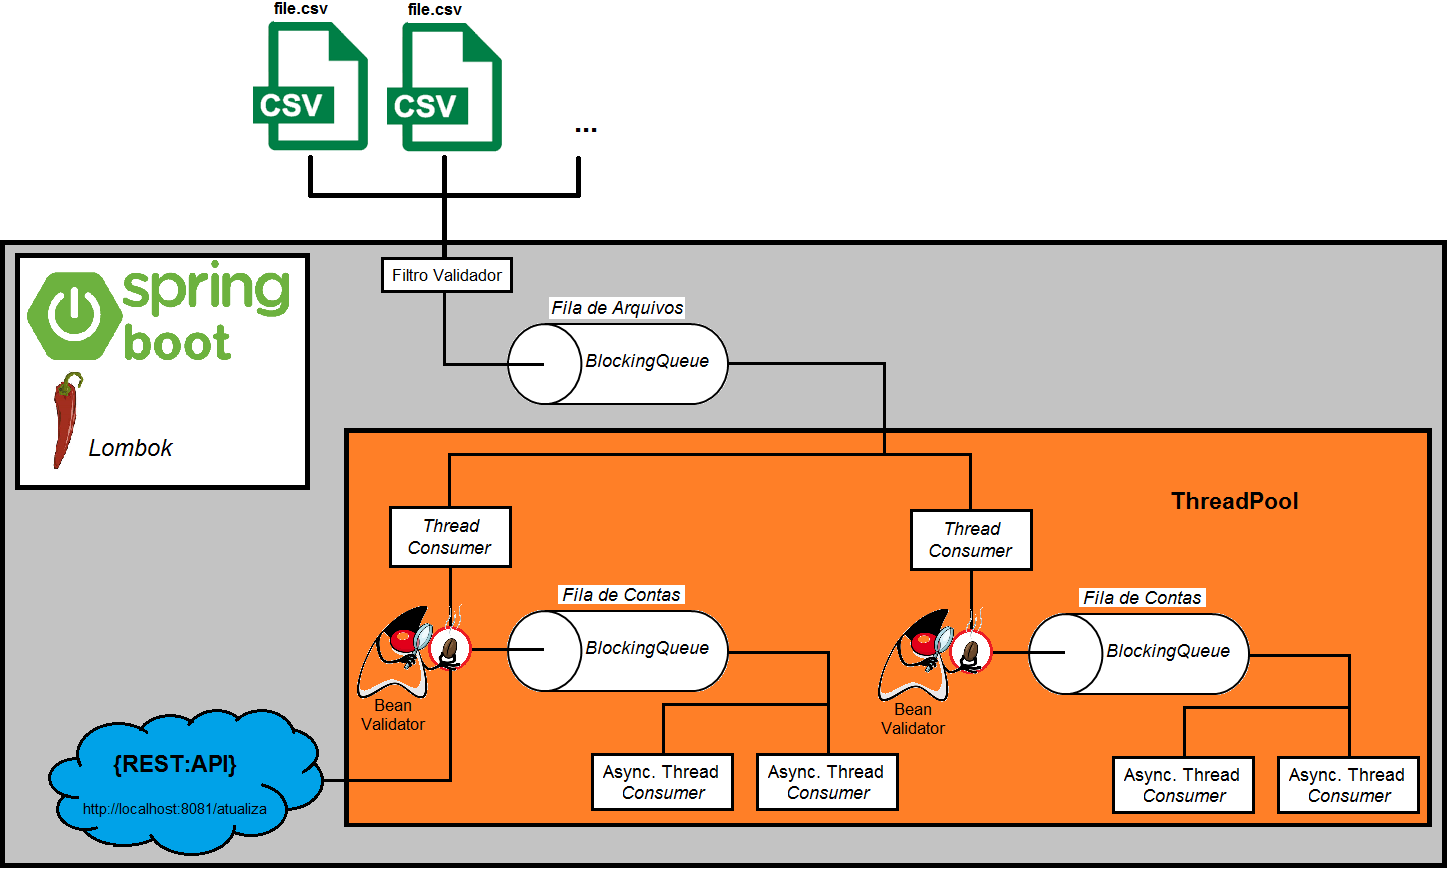
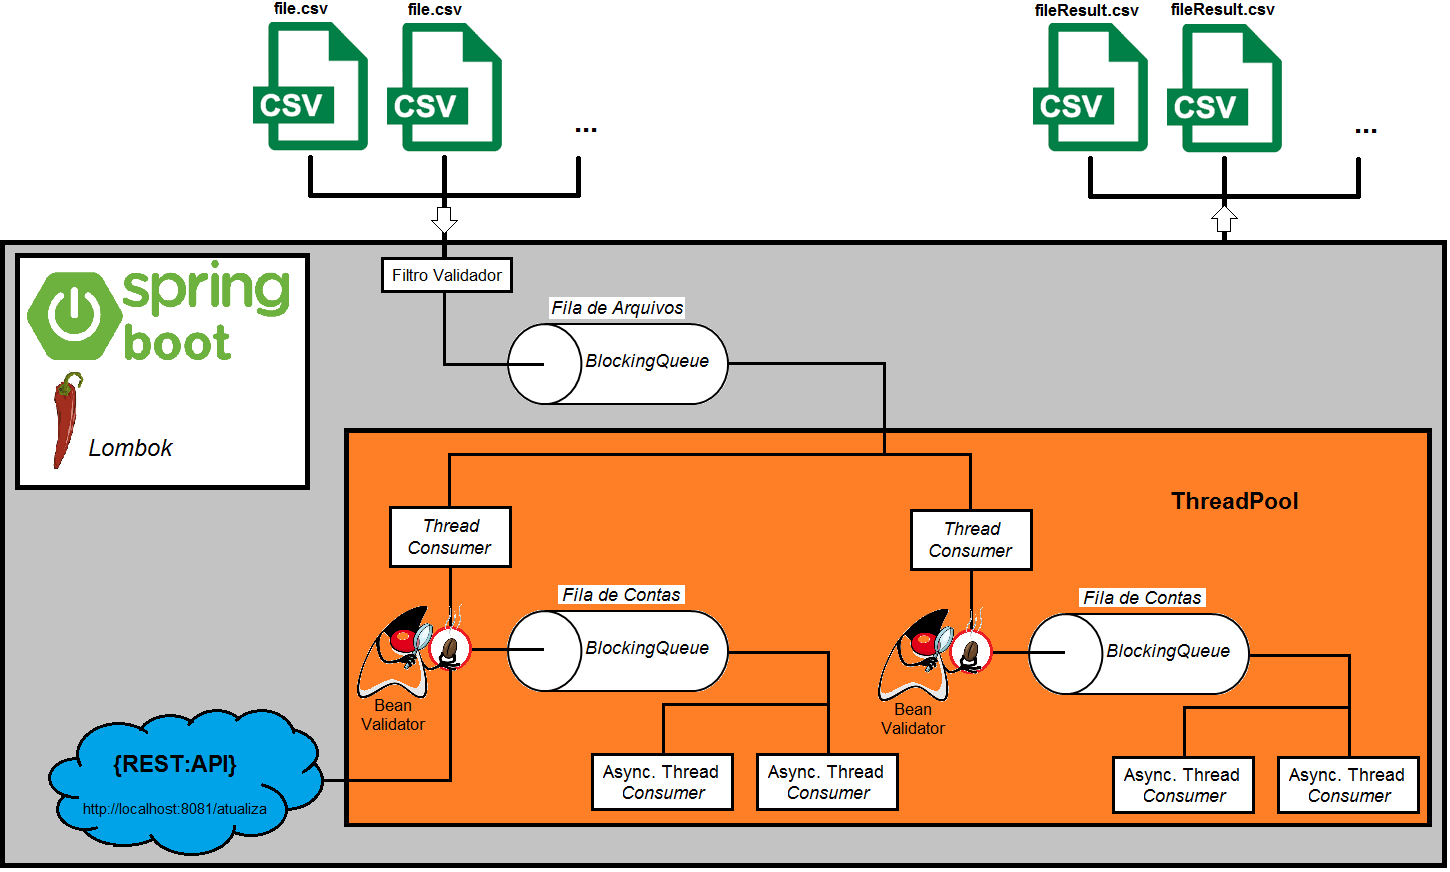
image changed

Changed region(s): [[0.7138, 0.0, 0.931, 0.2477], [0.931, 0.1858, 0.9621, 0.2167]]

diff --git a/src/main/java/sincronizacaoreceita/Application.java b/src/main/java/sincronizacaoreceita/Application.java
@@ -3,6 +3,8 @@ package sincronizacaoreceita;
 import java.io.File;
 import java.io.IOException;
 import java.io.Reader;
+import java.lang.reflect.Field;
+import java.lang.reflect.Method;
 import java.nio.charset.StandardCharsets;
 import java.nio.file.Files;
 import java.nio.file.Path;
@@ -18,13 +20,17 @@ import java.util.stream.Collectors;
 import org.apache.commons.lang3.StringUtils;
 import org.assertj.core.api.filter.Filters;
 import org.junit.runner.RunWith;
+import org.springframework.beans.factory.annotation.Autowired;
+import org.springframework.beans.factory.annotation.Value;
 import org.springframework.boot.CommandLineRunner;
 import org.springframework.boot.SpringApplication;
 import org.springframework.boot.autoconfigure.EnableAutoConfiguration;
 import org.springframework.boot.autoconfigure.SpringBootApplication;
+import org.springframework.boot.test.context.TestComponent;
 import org.springframework.boot.web.servlet.support.SpringBootServletInitializer;
 import org.springframework.context.annotation.ComponentScan;
 import org.springframework.context.annotation.Configuration;
+import org.springframework.core.env.Environment;
 import org.springframework.core.io.ClassPathResource;
 import org.springframework.test.context.junit4.SpringJUnit4ClassRunner;
 
@@ -44,19 +50,21 @@ import sincronizacaoreceita.model.Conta;
 @SpringBootApplication
 public class Application extends SpringBootServletInitializer implements CommandLineRunner  {
 
+	@Value("${spring.profiles.active:Unknown}")
+	private String activeProfile;
+	
 	public static void main(String[] args) throws IOException {
-	
-		File resourcesDirectory = new File("src/main/resources/contas.csv");
-	
-		args = new String[] {resourcesDirectory.getAbsolutePath()};
-
+		    
 		SpringApplication.run(Application.class, args);
 		
 	}
 
 	@Override
 	public void run(String... inputFilePath) throws Exception {
-		
+	
+		if(activeProfile.equals("test"))
+			inputFilePath = new String[]{System.getProperty("path")};
+			
 		if (inputFilePath.length == 0) {
 			 log.error("Adicione ao menos um arquivo csv para atualização.");
 			return;

diff --git a/src/test/java/sincronizacaoreceita/WSTest.java b/src/test/java/sincronizacaoreceita/WSTest.java
@@ -1,13 +1,8 @@
 package sincronizacaoreceita;
 
-import java.io.BufferedReader;
 import java.io.IOException;
-import java.io.InputStreamReader;
-import java.net.MalformedURLException;
 import java.net.URI;
 import java.net.URISyntaxException;
-import java.net.URL;
-import java.net.URLConnection;
 import java.net.http.HttpClient;
 import java.net.http.HttpRequest;
 import java.net.http.HttpResponse;
@@ -16,8 +11,6 @@ import java.util.List;
 import java.util.concurrent.TimeUnit;
 
 import org.junit.jupiter.api.Test;
-import org.hamcrest.Matcher;
-import org.junit.jupiter.api.BeforeAll;
 import org.junit.jupiter.api.BeforeEach;
 import org.springframework.http.HttpStatus;
 
@@ -25,17 +18,12 @@ import java.net.http.HttpRequest.BodyPublishers;
 import java.util.ArrayList;
 import com.google.gson.Gson;
 import com.google.gson.GsonBuilder;
-import com.jayway.jsonpath.JsonPath;
-
-
 import io.restassured.*;
-import io.restassured.response.Response;
 import sincronizacaoreceita.model.Conta;
 import static org.junit.Assert.assertEquals;
 import static org.junit.Assert.assertTrue;
 
 import static io.restassured.RestAssured.given;
-import static io.restassured.RestAssured.when;
 import static io.restassured.RestAssured.with;
 import static org.hamcrest.Matchers.lessThan;
 
@@ -71,6 +59,7 @@ class WSTest {
 	}
 	
 	
+	
 	@Test
 	void testeComRestAssured() {
 
@@ -86,6 +75,7 @@ class WSTest {
 	}
 	
 	
+	
 	@Test
 	public void tempoDeResposta() { //tempo de resposta deve ser menor que 5s.
 	  
@@ -96,6 +86,7 @@ class WSTest {
 		.time(lessThan(5L), TimeUnit.SECONDS);
 		
 	}
+	
 	
 	
 	@Test 

diff --git a/src/test/java/sincronizacaoreceita/ApplicationArgsTest.java b/src/test/java/sincronizacaoreceita/ApplicationArgsTest.java
@@ -1,0 +1,40 @@
+package sincronizacaoreceita;
+
+import static org.junit.jupiter.api.Assertions.*;
+
+import java.io.File;
+import java.io.IOException;
+
+import org.assertj.core.util.Arrays;
+import org.junit.Before;
+import org.junit.jupiter.api.Assertions;
+import org.junit.jupiter.api.BeforeAll;
+import org.junit.jupiter.api.Test;
+import org.springframework.beans.factory.annotation.Autowired;
+import org.springframework.beans.factory.annotation.Value;
+import org.springframework.boot.ApplicationArguments;
+import org.springframework.boot.SpringApplication;
+import org.springframework.boot.test.context.SpringBootTest;
+import org.springframework.boot.test.mock.mockito.MockBean;
+import org.springframework.context.ApplicationContextInitializer;
+import org.springframework.core.env.Environment;
+import org.springframework.test.context.ActiveProfiles;
+
+@SpringBootTest
+class ApplicationArgsTest {
+
+	static {
+			File resourcesDirectory = new File("src/main/resources/contas.csv");
+			System.setProperty("path", resourcesDirectory.getAbsolutePath());
+			System.setProperty("spring.profiles.active", "test");
+	}
+	
+	@Test
+	void test() throws InterruptedException {
+		
+		Thread.sleep(3000);
+		
+	}
+
+}
+

diff --git a/src/test/java/sincronizacaoreceita/APITestWithMock.java b/src/test/java/sincronizacaoreceita/APITestWithMock.java
@@ -29,7 +29,7 @@ import sincronizacaoreceita.model.Conta;
 
 @SpringBootTest
 @AutoConfigureMockMvc
-class ApplicationTests {
+class APITestWithMock {
 
 	 @Autowired
 	  private MockMvc mockMvc;
